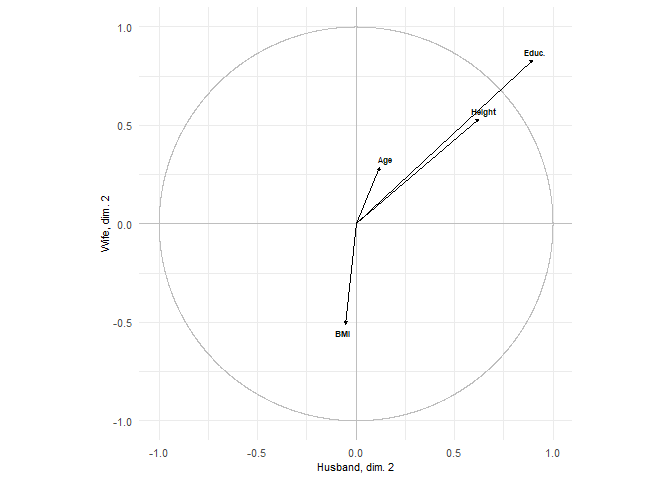
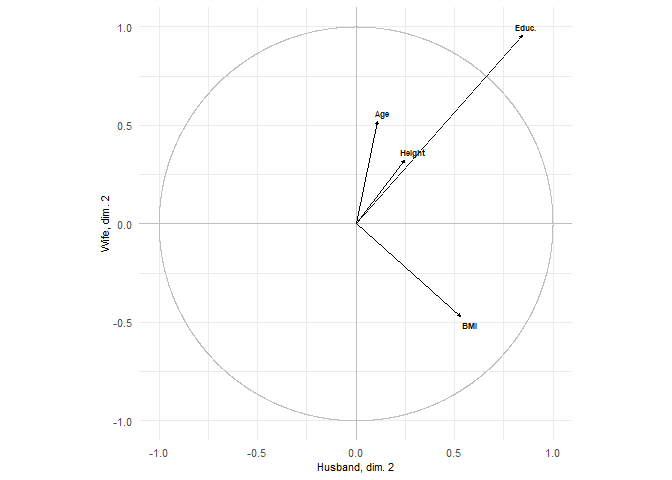
CRAN resubmission

diff --git a/README.md b/README.md
@@ -62,7 +62,7 @@ Sun (2019) and Ciscato, Galichon and Gousse (2020).
 install.packages("affinitymatrix") 
 ```-->
 
-You can install the released version of affinitymatrix directly from
+You can install the released version of `affinitymatrix` directly from
 [Github](https://github.com/edoardociscato/affinitymatrix) with:
 
 ``` r
@@ -127,23 +127,23 @@ table1 = show.affinity.matrix(res, labels_x = labels_x, labels_y = labels_y)
 gsub("\\}", "***", gsub("\\\\|hline|textbf\\{|\t|&|\n", "", table1))
 #>       [,1]     [,2]      [,3]      [,4]      [,5]      
 #>  [1,] ""       "Educ."   "Age"     "Height"  "BMI"     
-#>  [2,] "Educ."  "0.92***" "0.59"    "0.69***" "-0.40***"
-#>  [3,] ""       "(0.25) " "(0.42) " "(0.21) " "(0.18) " 
-#>  [4,] "Age"    "0.18"    "6.38***" "0.02"    "0.40"    
-#>  [5,] ""       "(0.40) " "(0.98) " "(0.32) " "(0.32) " 
-#>  [6,] "Height" "0.70***" "0.52"    "0.22"    "-0.01"   
-#>  [7,] ""       "(0.18) " "(0.30) " "(0.16) " "(0.13) " 
-#>  [8,] "BMI"    "0.01"    "0.32"    "0.11"    "0.41***" 
-#>  [9,] ""       "(0.16) " "(0.30) " "(0.15) " "(0.14) "
+#>  [2,] "Educ."  "1.12***" "0.39"    "0.08"    "-0.45***"
+#>  [3,] ""       "(0.25) " "(0.34) " "(0.18) " "(0.18) " 
+#>  [4,] "Age"    "-0.52"   "4.48***" "0.98***" "0.69***" 
+#>  [5,] ""       "(0.35) " "(0.71) " "(0.29) " "(0.28) " 
+#>  [6,] "Height" "0.15"    "0.41"    "0.10"    "-0.12"   
+#>  [7,] ""       "(0.17) " "(0.26) " "(0.13) " "(0.13) " 
+#>  [8,] "BMI"    "0.78***" "0.14"    "0.10"    "0.07"    
+#>  [9,] ""       "(0.19) " "(0.27) " "(0.14) " "(0.14) "
 
 # Print diagonal elements of the affinity matrix with standard errors
 table2 = show.diagonal(res, labels = labels_x)
 # export.table(table2, name = "diagonal_affinity_matrix", "path = "myresults")
 gsub("\\}", "***", gsub("\\\\|hline|textbf\\{|\t|&|\n", "", table2))
-#>      [,1]      [,2]      [,3]     [,4]     
-#> [1,] "Educ."   "Age"     "Height" "BMI"    
-#> [2,] "0.92***" "6.38***" "0.22"   "0.41***"
-#> [3,] "(0.25)"  "(0.98)"  "(0.16)" "(0.14)"
+#>      [,1]      [,2]      [,3]     [,4]    
+#> [1,] "Educ."   "Age"     "Height" "BMI"   
+#> [2,] "1.12***" "4.48***" "0.10"   "0.07"  
+#> [3,] "(0.25)"  "(0.71)"  "(0.13)" "(0.14)"
 
 # Print rank test summary
 table3 = show.test(res)
@@ -151,9 +151,9 @@ table3 = show.test(res)
 gsub("\\}", "***", gsub("\\\\|hline|textbf\\{|\t|&|\n", "", table3))
 #>      [,1]               [,2]    [,3]    [,4]   
 #> [1,] "$H_0$: $rk(A)=k$" "$k=1$" "$k=2$" "$k=3$"
-#> [2,] "$chi^2$"          "42.00" "10.27" "2.63" 
+#> [2,] "$chi^2$"          "36.55" "6.62"  "0.06" 
 #> [3,] "$df$"             "9"     "4"     "1"    
-#> [4,] "Rejected?"        "Yes"   "Yes"   "No"
+#> [4,] "Rejected?"        "Yes"   "No"    "No"
 
 # Print results from saliency analysis
 table4 = show.saliency(res, labels_x = labels_x, labels_y = labels_y, ncol_x = 2, ncol_y = 2)
@@ -162,19 +162,19 @@ table4 = show.saliency(res, labels_x = labels_x, labels_y = labels_y, ncol_x = 2
 gsub("\\}", "***", gsub("\\\\|hline|textbf\\{|\t|&|\n|$", "", table4$U.table))
 #>      [,1]           [,2]      [,3]      
 #> [1,] ""             "Index 1" "Index 2" 
-#> [2,] "Educ."        "0.10***" "0.87***" 
-#> [3,] "Age"          "0.99***" "-0.12***"
-#> [4,] "Height"       "0.09***" "0.48***" 
-#> [5,] "BMI"          "0.05***" "-0.05"   
-#> [6,] " Index share" "0.76"    "0.16"
+#> [2,] "Educ."        "0.05"    "0.85***" 
+#> [3,] "Age"          "1.00***" "-0.06***"
+#> [4,] "Height"       "0.08"    "0.16"    
+#> [5,] "BMI"          "0.02"    "0.51***" 
+#> [6,] " Index share" "0.72"    "0.22"
 gsub("\\}", "***", gsub("\\\\|hline|textbf\\{|\t|&|\n|$", "", table4$V.table))
-#>      [,1]           [,2]      [,3]      
-#> [1,] ""             "Index 1" "Index 2" 
-#> [2,] "Educ."        "0.05"    "0.81***" 
-#> [3,] "Age"          "1.00***" "-0.03"   
-#> [4,] "Height"       "0.02"    "0.51***" 
-#> [5,] "BMI"          "0.06***" "-0.30***"
-#> [6,] " Index share" "0.76"    "0.16"
+#>      [,1]           [,2]       [,3]      
+#> [1,] ""             "Index 1"  "Index 2" 
+#> [2,] "Educ."        "-0.09***" "0.95***" 
+#> [3,] "Age"          "0.96***"  "0.12***" 
+#> [4,] "Height"       "0.21***"  "0.05"    
+#> [5,] "BMI"          "0.14***"  "-0.28***"
+#> [6,] " Index share" "0.72"     "0.22"
 
 # Show correlation between observed variables and matching factors
 plots = show.correlations(res, labels_x = labels_x, labels_y = labels_y,

diff --git a/cran-comments.md b/cran-comments.md
@@ -1,0 +1,20 @@
+
+## Test environments
+* local OS Windows 10 Entreprise, R 4.0.3
+* win-builder (devel and release)
+* r-hub (ubuntu devel and release)
+
+## R CMD check results
+There were no ERRORs or WARNINGs. 
+
+0 errors | 0 warnings | 0 notes
+
+## Downstream dependencies
+I have also run R CMD check on downstream dependencies of httr 
+(https://github.com/wch/checkresults/blob/master/httr/r-release). 
+All packages that I could install passed except:
+
+* Ecoengine: this appears to be a failure related to config on 
+  that machine. I couldn't reproduce it locally, and it doesn't 
+  seem to be related to changes in httr (the same problem exists 
+  with httr 0.4).
